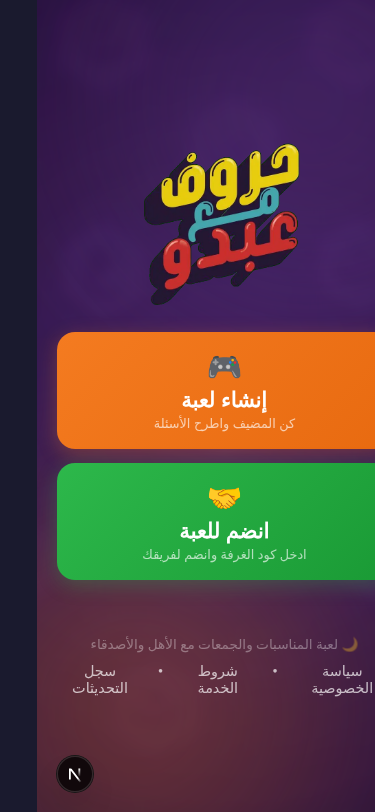
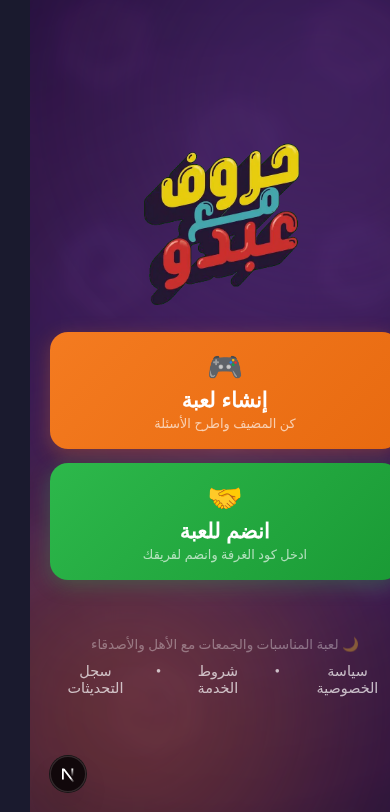
Add game board screenshots and update README with actual gameplay views
Agent-Logs-Url: https://github.com/KNIGHTABDO/huroof-ABDO/sessions/d5b2176c-08ca-4128-9a15-dd61d60bfd83

diff --git a/README.md b/README.md
@@ -28,11 +28,14 @@
 ### الصفحة الرئيسية (Landing Page)
 <img src="public/screenshots/screenshot-landing.png" alt="الصفحة الرئيسية" width="800" />
 
-### نموذج الانضمام (Join Game Form)
-<img src="public/screenshots/screenshot-join-form.png" alt="نموذج الانضمام للعبة" width="800" />
+### لوحة اللعبة - عرض سطح المكتب (Game Board - Desktop)
+<img src="public/screenshots/screenshot-game-desktop.png" alt="لوحة اللعبة على سطح المكتب" width="800" />
+
+### لوحة اللعبة - لوحي (Game Board - Tablet)
+<img src="public/screenshots/screenshot-game-tablet.png" alt="لوحة اللعبة على اللوحي" width="600" />
 
 ### عرض الجوال (Mobile View)
-<img src="public/screenshots/screenshot-landing-mobile.png" alt="عرض الجوال" width="375" />
+<img src="public/screenshots/screenshot-landing-mobile.png" alt="عرض الجوال" width="390" />
 
 </div>
 
